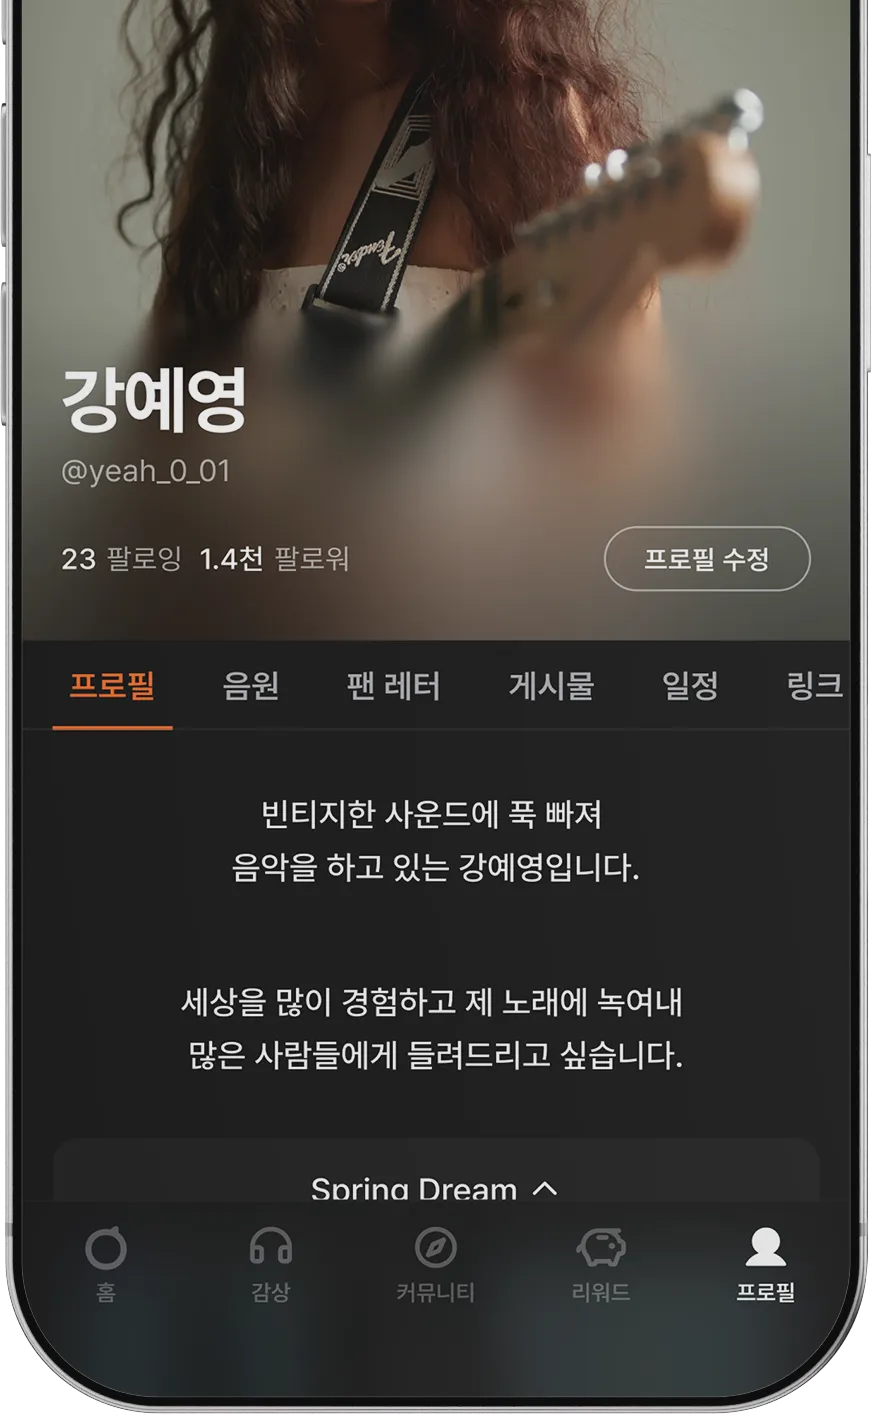
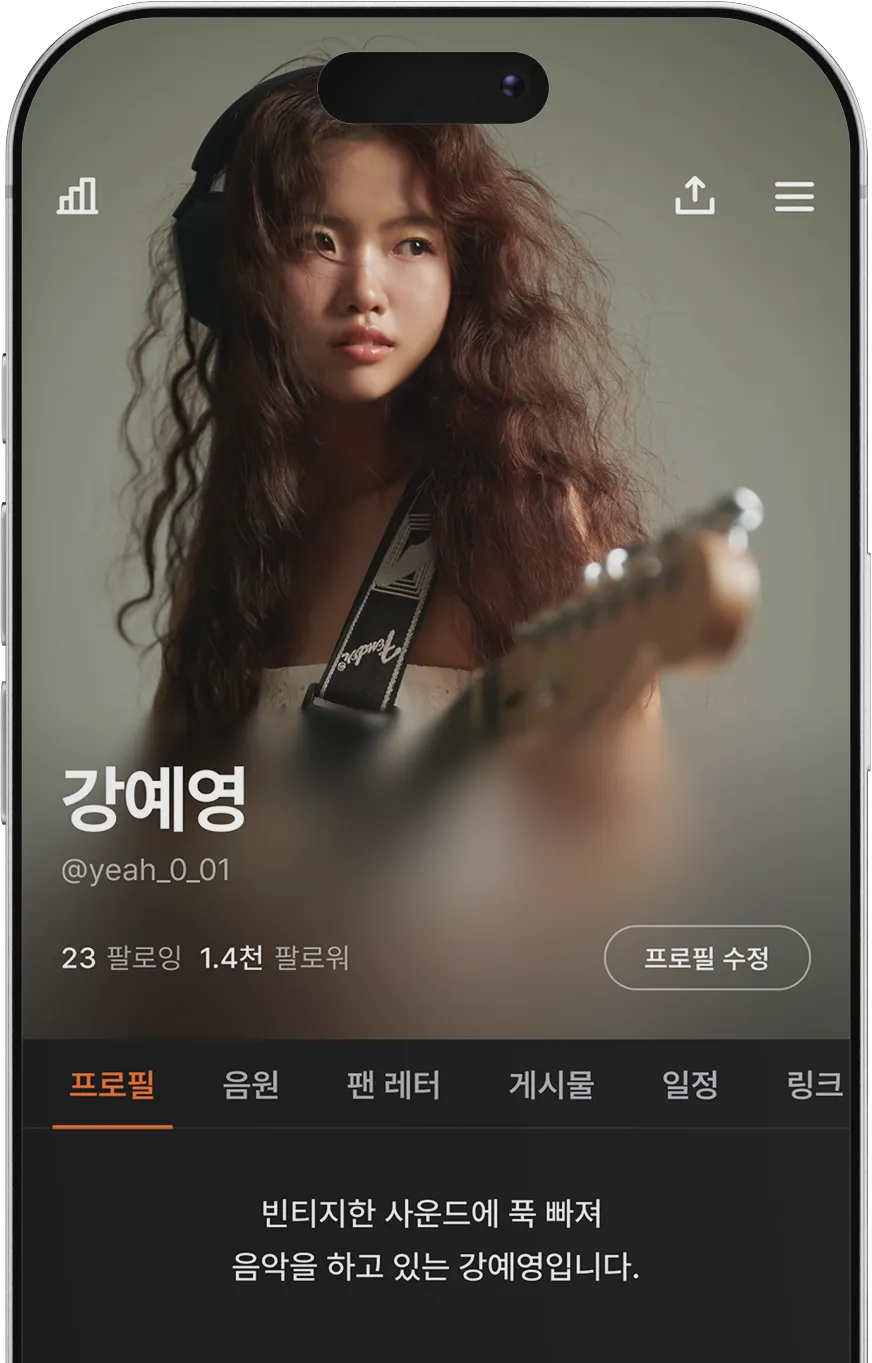
feat: Change top bento

diff --git a/css/style.css b/css/style.css
@@ -1095,7 +1095,7 @@ body {
 .bento-grid > .bento-card--wide:first-child {
   min-height: 580px;
   justify-content: center;
-  padding: 0 32px 32px;
+  padding: 32px 32px 0;
 }
 
 .bento-grid > .bento-card--wide:first-child .bento-content {
@@ -1103,12 +1103,7 @@ body {
 }
 
 .bento-grid > .bento-card--wide:first-child .bento-media {
-  align-self: flex-start;
-}
-
-.bento-card--top .bento-media {
-  margin-top: 0;
-  align-self: flex-start;
+  align-self: flex-end;
 }
 
 .bento-grid > .bento-card--wide:first-child .bento-kicker {
@@ -1228,6 +1223,30 @@ body {
   margin-bottom: 0;
   --bento-shift-x: 0%;
   --bento-shift-y: 0%;
+}
+
+.bento-card.bento-card--top .bento-content--split {
+  display: grid;
+  grid-template-columns: minmax(0, 1fr) minmax(0, 420px);
+  column-gap: 28px;
+  align-items: stretch;
+  height: 100%;
+}
+
+.bento-card.bento-card--top .bento-content {
+  flex: 1 1 auto;
+  height: 100%;
+}
+
+.bento-card.bento-card--top .bento-copy {
+  align-self: center;
+}
+
+.bento-card.bento-card--top .bento-media {
+  margin-top: 0;
+  margin-bottom: 0;
+  align-self: flex-end;
+  justify-self: end;
 }
 
 .bento-grid > .bento-card:not(:first-child) .bento-media {
@@ -1687,7 +1706,7 @@ body {
 
   .bento-grid > .bento-card--wide:first-child {
     min-height: 400px;
-    padding: 24px;
+    padding: 24px 24px 0;
   }
 
   .bento-grid > .bento-card--wide:first-child .bento-content {
@@ -1700,12 +1719,25 @@ body {
     gap: 20px;
   }
 
+  .bento-card.bento-card--top .bento-content--split {
+    display: flex;
+    flex-direction: column;
+    height: 100%;
+    align-items: flex-start;
+    justify-content: space-between;
+  }
+
   .bento-media {
     max-width: 100%;
   }
 
   .bento-content--split .bento-media {
     max-width: 100%;
+  }
+
+  .bento-card.bento-card--top .bento-media {
+    margin-top: auto;
+    align-self: flex-start;
   }
 
   .bento-grid > .bento-card:not(:first-child) .bento-media {
